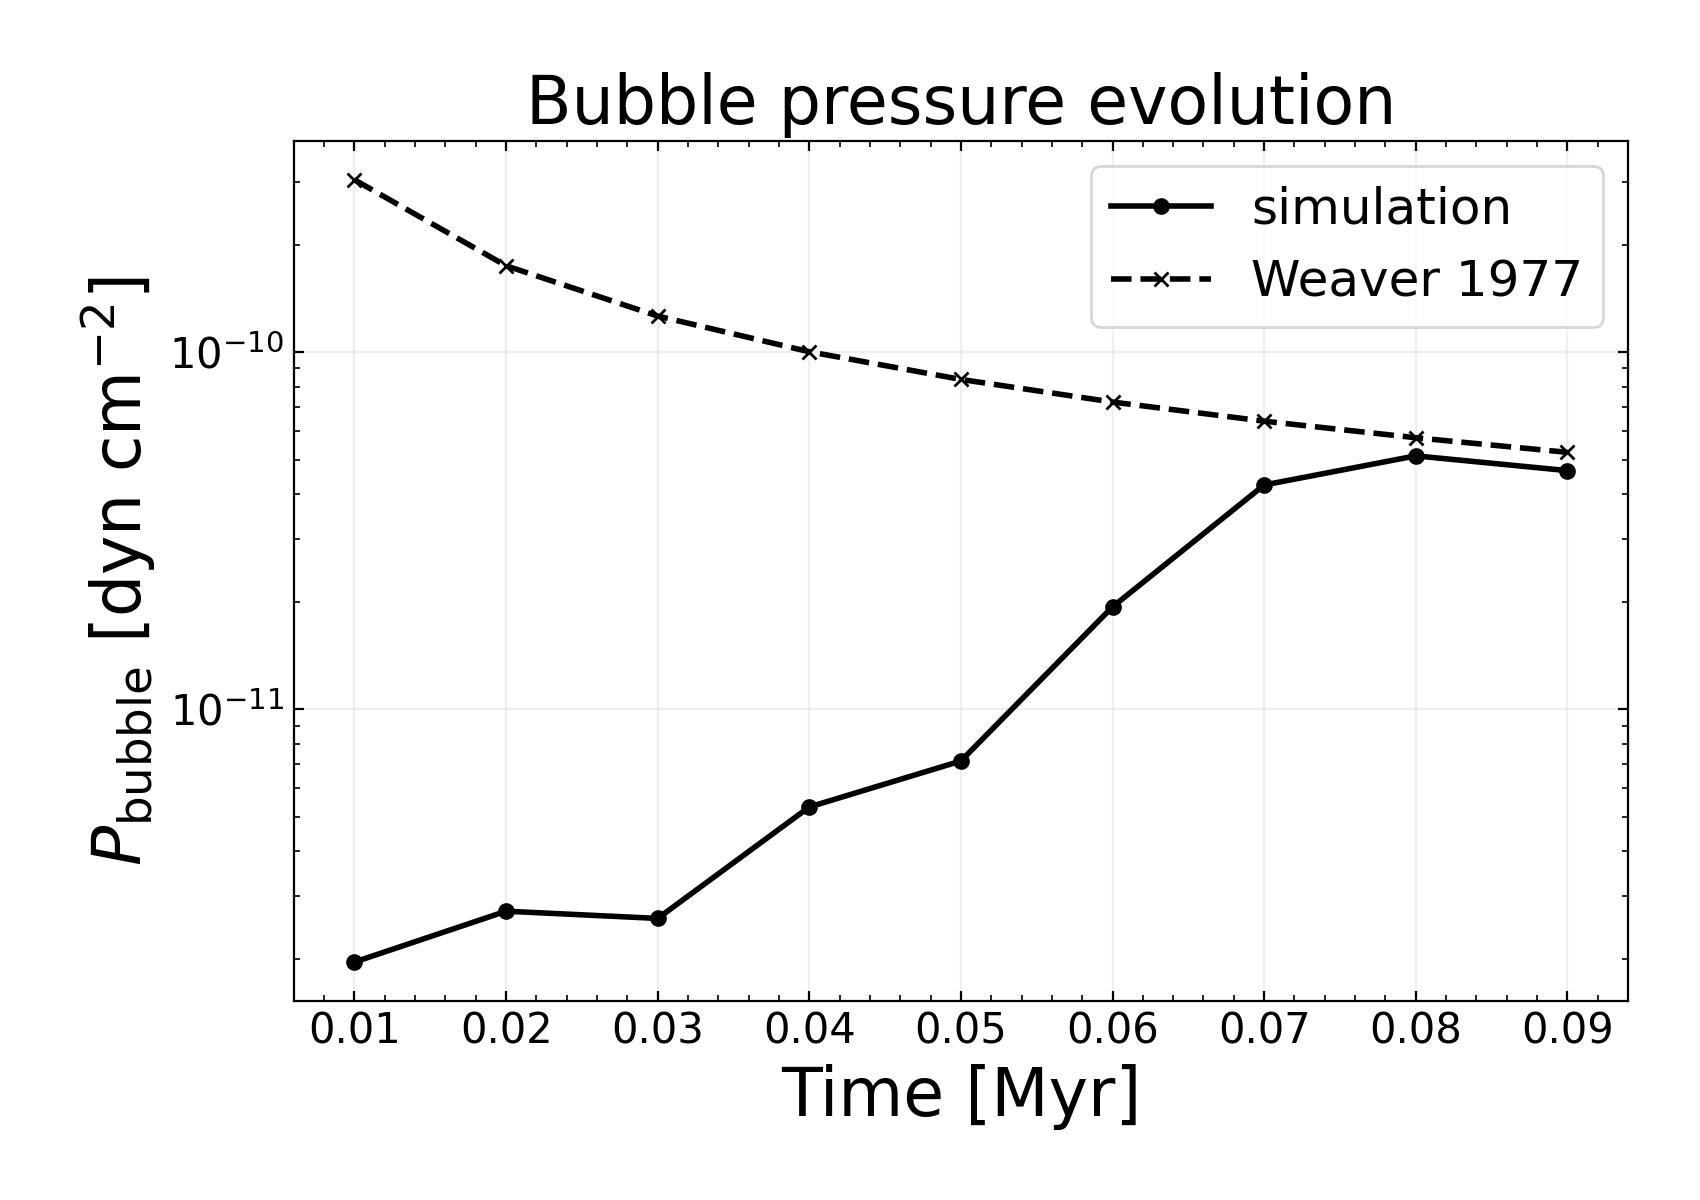
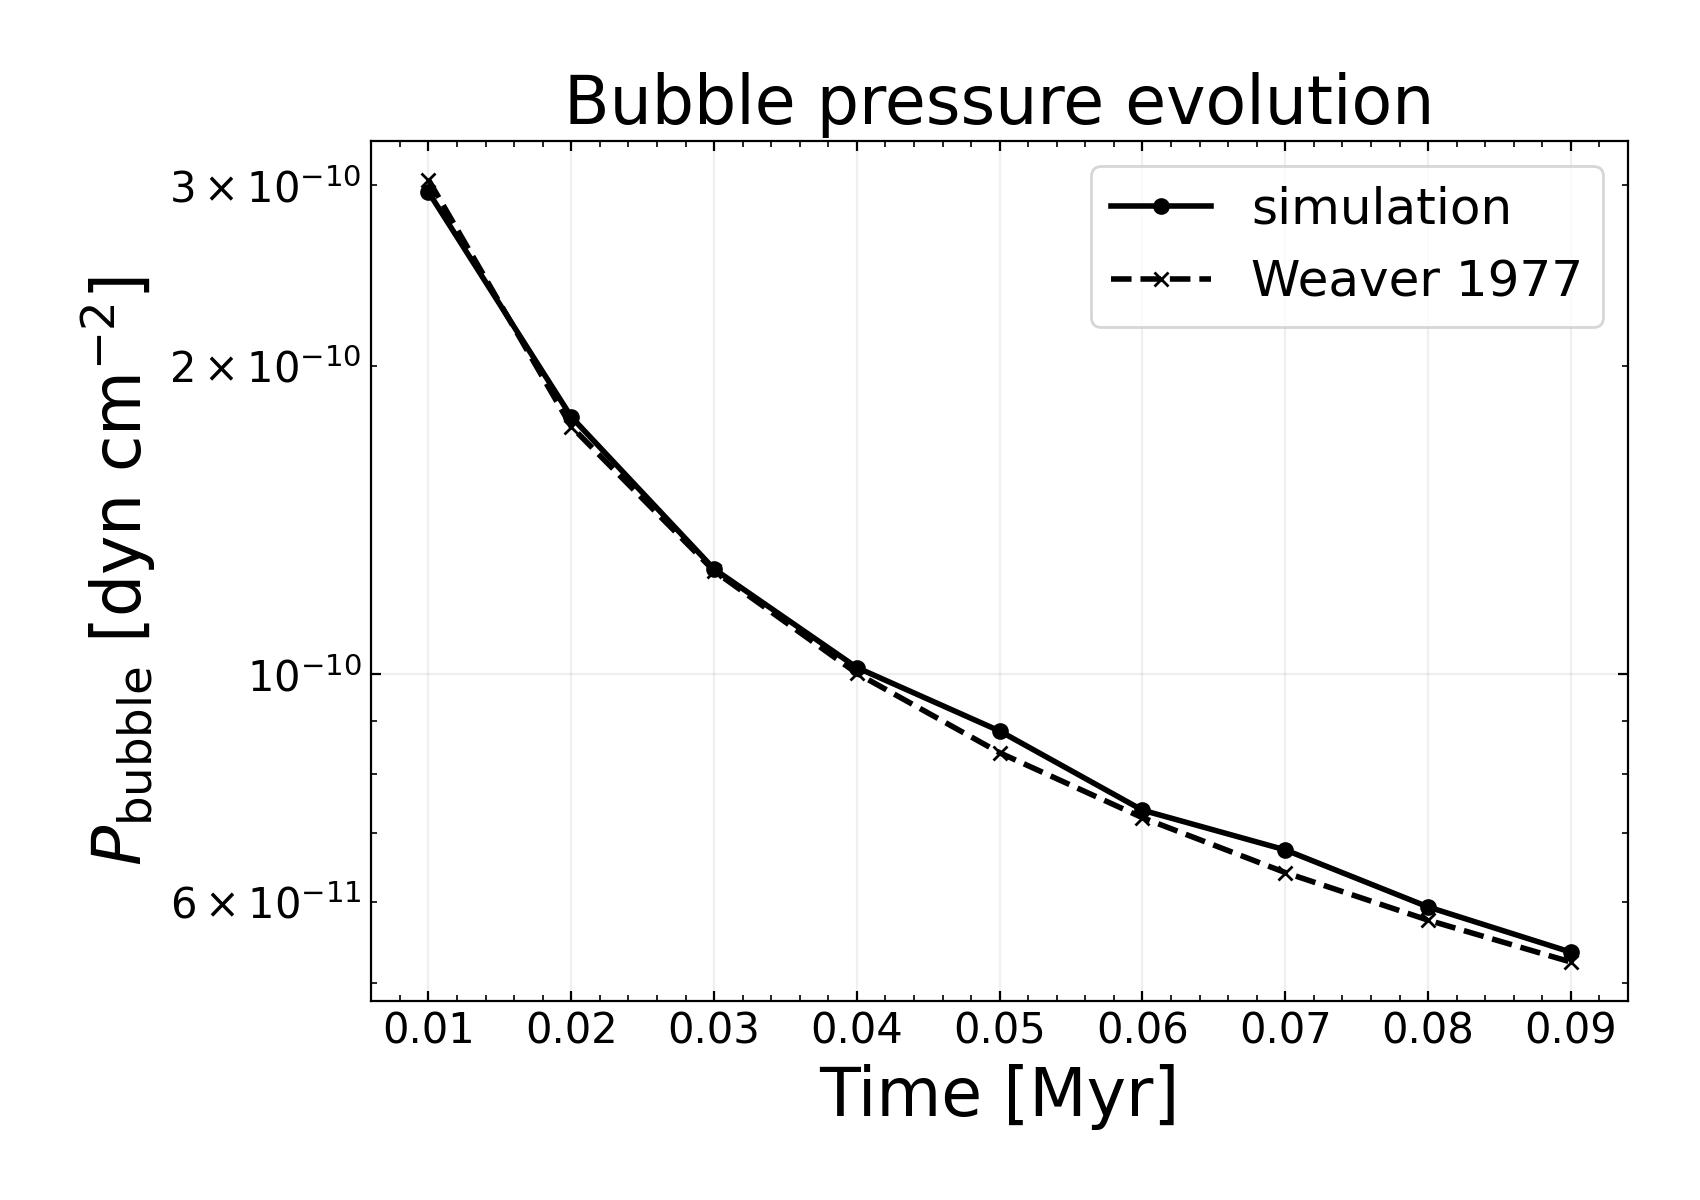
Corrected pressure

diff --git a/tests/test_example.py b/tests/test_example.py
@@ -242,7 +242,7 @@ class Testing(unittest.TestCase):
     def test_stellar_wind_shell_diagnostics_include_velocity_and_pressure(self):
         def make_snapshot(time_myr, shell_start_index):
             boundary = unyt.unyt_array(
-                [0, 1, 2, 3, 4, 5, 6, 7, 8, 9, 10],
+                [0.1 * idx for idx in range(51)],
                 unyt.pc,
             )
             rho = [0.5e-24] * shell_start_index + [2.0e-24] * (
@@ -261,7 +261,7 @@ class Testing(unittest.TestCase):
                 ),
             )
 
-        snapshots = [make_snapshot(1.0, 5), make_snapshot(2.0, 6)]
+        snapshots = [make_snapshot(1.0, 25), make_snapshot(2.0, 26)]
         runparams = {
             'shell_edge_density_threshold_factor': 1.0,
             'rho_outflow': unyt.unyt_quantity(1.0e-22, unyt.g / unyt.cm**3),
@@ -282,15 +282,15 @@ class Testing(unittest.TestCase):
         self.assertEqual(diagnostics['times'].to_value(unyt.Myr).tolist(), [1.0, 2.0])
         self.assertAlmostEqual(
             diagnostics['radii'][0].to_value(unyt.pc),
-            4.833333333333333,
+            2.4833333333333334,
             places=12,
         )
         self.assertAlmostEqual(
             diagnostics['radii'][1].to_value(unyt.pc),
-            5.833333333333333,
+            2.5833333333333335,
             places=12,
         )
-        expected_velocity = (1.0 * unyt.pc / unyt.Myr).to_value(unyt.km / unyt.s)
+        expected_velocity = (0.1 * unyt.pc / unyt.Myr).to_value(unyt.km / unyt.s)
         self.assertAlmostEqual(
             diagnostics['velocities'][0].to_value(unyt.km / unyt.s),
             expected_velocity,

diff --git a/example/StellarWindBubble1D/tools.py b/example/StellarWindBubble1D/tools.py
@@ -347,7 +347,7 @@ def make_radius_figure(snapshots, icparams, runparams):
 
 
 def numerical_bubble_pressure(rout, shell_radius):
-    """Estimate the cavity pressure from cells interior to the shell edge."""
+    """Estimate the bubble pressure from a cavity-side annulus."""
 
     coordinate = 0.5 * (rout.mesh.boundary[1:] + rout.mesh.boundary[:-1])
     coordinate_values = coordinate.to_value(unyt.pc)
@@ -365,11 +365,14 @@ def numerical_bubble_pressure(rout, shell_radius):
     if pressure_values.size < 2:
         return None
 
-    cavity = coordinate_values < shell_radius_value
-    if not np.any(cavity):
+    shell_width = max(0.05 * shell_radius_value, 0.1)
+    cavity_band = (coordinate_values < shell_radius_value) & (
+        coordinate_values >= shell_radius_value - shell_width
+    )
+    if not np.any(cavity_band):
         return None
 
-    return unyt.unyt_quantity(np.median(pressure_values[cavity]), pressure.units)
+    return unyt.unyt_quantity(np.median(pressure_values[cavity_band]), pressure.units)
 
 
 def collect_shell_diagnostics(snapshots, icparams, runparams):
